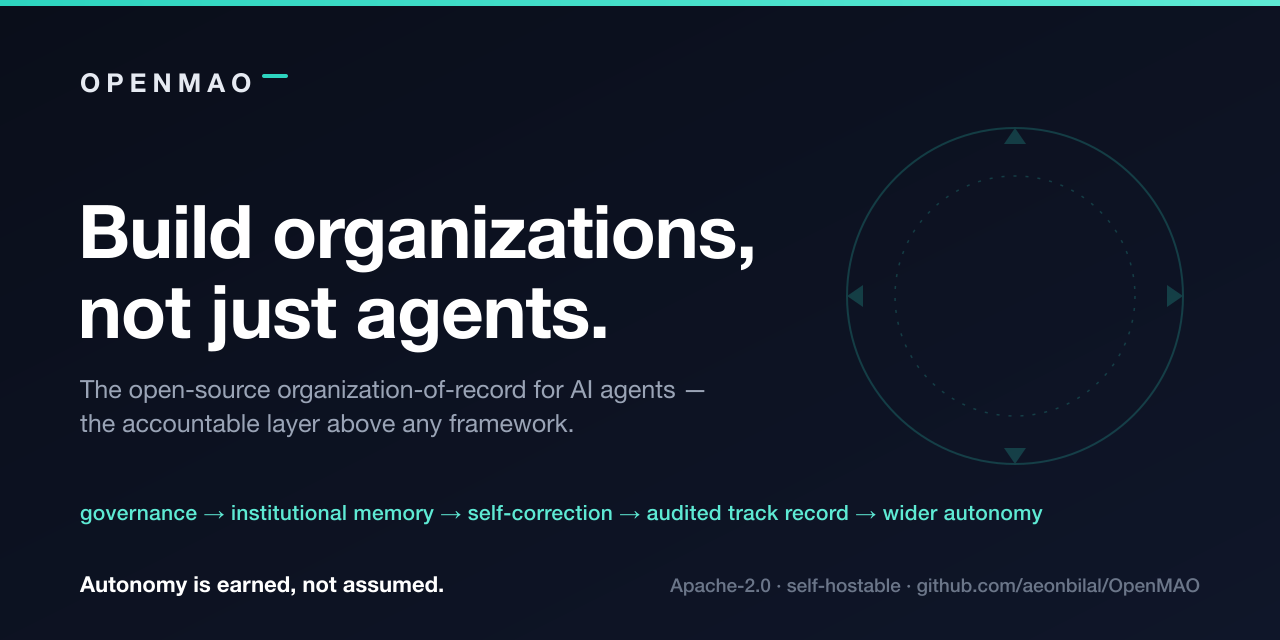
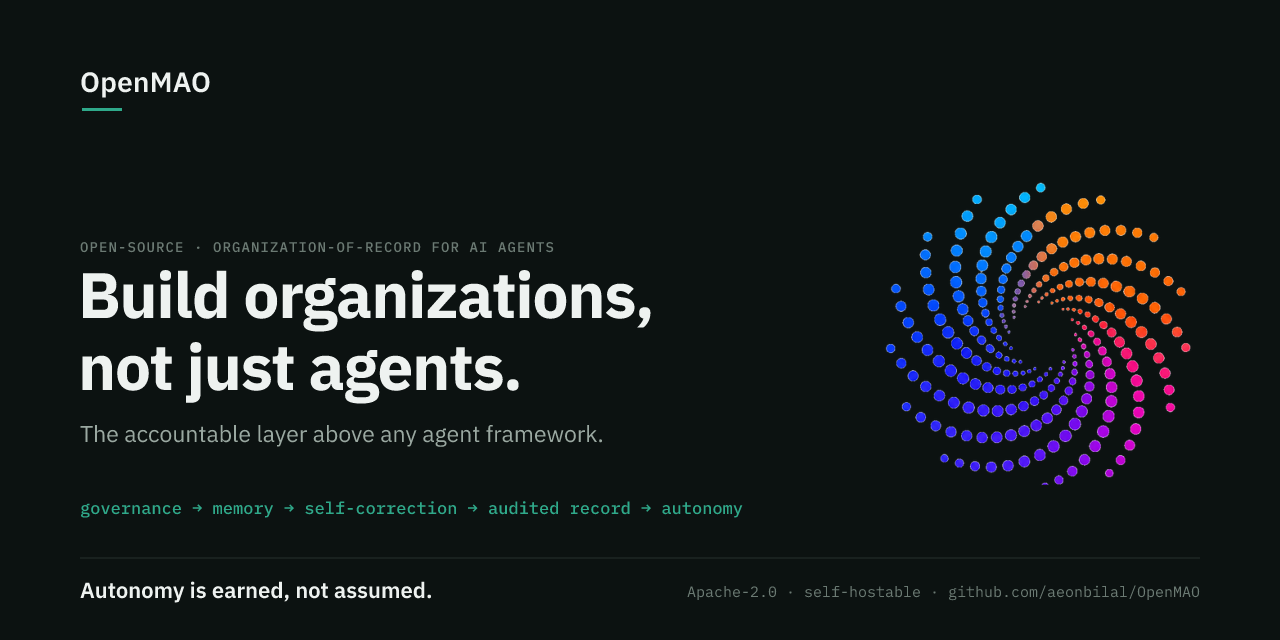
design: align social card to the OpenMAO design system, scrub emoji
Rebuilds the social preview to the official brand system (Claude Design handoff):
- flat dark #0c1211 background (no gradient/glow), IBM Plex Sans + Mono type,
  brand green #2fa98a accent, and the flywheel mark as the only saturated element
- the prior version used an off-brand navy→teal gradient and bright #2DD4BF
- add docs/assets/openmao-mark-transparent.png (official flywheel mark, for
  favicon/loaders/social per the brand guide)
- README: drop the emoji from the demo callout (brand voice: no emoji)

diff --git a/README.md b/README.md
@@ -14,7 +14,7 @@
   <img src="https://img.shields.io/badge/status-release%20candidate-orange" alt="Status: release candidate">
 </p>
 
-> ⚡ **Try it in ~3 minutes — no API keys, no LLM calls, no cloud.** Run `make install && make demo && make demo-approve` and watch an organization run a two-agent workflow, **pause for human approval**, resume from durable state, and **promote memory only after you approve** — with a fully inspectable event log.
+> **Try it in ~3 minutes — no API keys, no LLM calls, no cloud.** Run `make install && make demo && make demo-approve` and watch an organization run a two-agent workflow, **pause for human approval**, resume from durable state, and **promote memory only after you approve** — with a fully inspectable event log.
 
 OpenMAO is an open-source substrate for AI-native organizations that run themselves, accountably.
 You define the mission, roles, goals, and guardrails. Agents do the work. The organization remembers